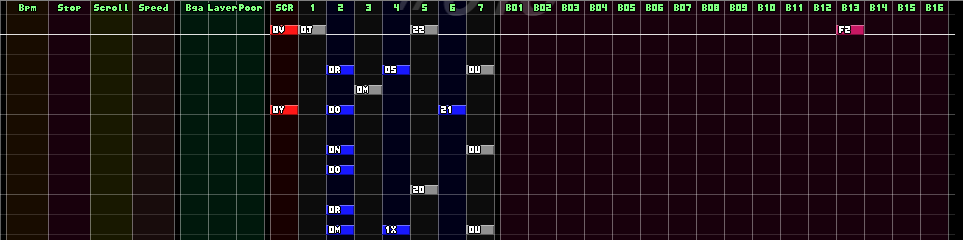
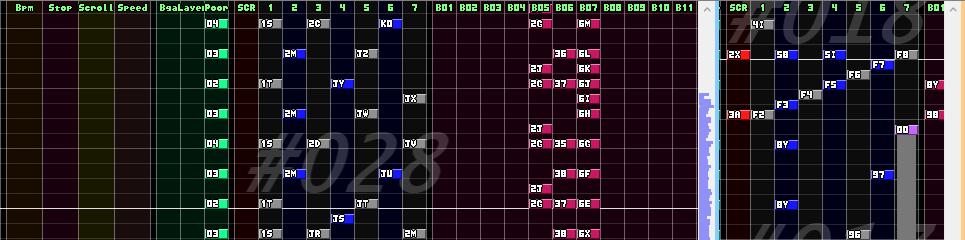
v0.7.42

diff --git a/docs/bms.html b/docs/bms.html
@@ -89,9 +89,9 @@
                 <h2>説明</h2>
                 要素をクリックすると説明セクションに飛びます。
                 <div class="image-map" src="img/window_bms.png" style="max-width: 640px;" maps="
-                       1, 31,1079,  67, #tab, link;
-                       1, 99, 799, 664, #main, link;
-                     800, 99, 280, 664, #rightPane, link;
+                       1, 31,1009,  67, #tab, link;
+                       1, 99, 804, 662, #main, link;
+                     809, 99, 202, 662, #rightPane, link;
                 "></div>
             </div>
             <div class="stack" id="tab">
@@ -121,10 +121,12 @@
                         316, 22, 66, 45, bms/copy.html;
                         382, 22, 79, 45, bms/paste.html;
                         461, 22, 60, 45, bms/delete.html;
-                        526, 22,154, 45, bms/preview_select.html;
-                        680, 22, 81, 45, bms/preview_all.html;
-                        761, 22,105, 45, bms/preview_resume.html;
-                        866, 22,112, 45, bms/preview_setting.html;
+                        526, 22, 86, 45, bms/mirror.html;
+                        612, 22, 97, 45, bms/place_copy.html;
+                        714, 22,154, 45, bms/preview_select.html;
+                        868, 22, 81, 45, bms/preview_all.html;
+                        949, 22,105, 45, bms/preview_resume.html;
+                        1054, 22,112, 45, bms/preview_setting.html;
                     "></div>
                     <div class="image-map" src="img/window_bms_tab_view.png" maps="
                           1,  0, 25, 21, common/undo.html;
@@ -140,6 +142,7 @@
                         652, 22, 73, 45, bms/grid_large.html;
                         730, 22,122, 45, bms/scale_y.html;
                         852, 22,106, 45, bms/scale_x.html;
+                        963, 22, 92, 45, bms/scrollbar.html;
                     "></div>
                     <div class="image-map" src="img/window_bms_tab_function.png" maps="
                           1,  0, 25, 21, common/undo.html;
@@ -168,10 +171,12 @@
                 要素をクリックすると説明が表示されます。
                 <div class="image-map" src="img/window_bms_main.png" maps="
                       0,  0, 963, 14, bms/area_header.html;
-                      7, 14, 167,226, bms/area_conductor.html, center;
-                    181, 14,  83,226, bms/area_meta.html, center;
-                    271, 14, 223,226, bms/area_key.html, center;
-                    501, 14, 447,226, bms/area_bgm.html, center;
+                      6, 14, 145,226, bms/area_conductor.html, center;
+                    156, 14,  73,226, bms/area_meta.html, center;
+                    234, 14, 193,226, bms/area_key.html, center;
+                    432, 14, 266,226, bms/area_bgm.html, center;
+                    698,  0,  17,240, bms/area_scrollbar.html, center;
+                    715, 14, 246,226, bms/area_mirror.html, center;
                 "></div>
                 <div>
                     <h3>マウスによる操作</h3>
@@ -301,12 +306,10 @@
                                                 <img src="img/icons/Selection.png" class="icon16"><b>選択機能</b>: <a href="bms_selection.html">選択機能ウィンドウ</a>を開きます。
                                             </li>
                                             <li>
-                                                <img src="img/icons/Update_Mono.png" class="icon16"><b>左右反転</b>: 選択範囲に含まれる音声レーン(演奏レーン+BGMレーン)のノートの配置を左右反転します。
-                                                <ul>
-                                                    <li>
-                                                        「選択中ノートがある左端のレーン」と「選択中ノートがある右端のレーン」の間が左右反転します。
-                                                    </li>
-                                                </ul>
+                                                <img src="img/icons/RightLeft.png" class="icon16"><b>左右反転</b>: 選択範囲に含まれる音声レーン(演奏レーン+BGMレーン)のノートの配置を左右反転します。
+                                            </li>
+                                            <li>
+                                                <img src="img/icons/Paste_Mono.png" class="icon16"><b>配置のコピー</b>: 選択範囲に含まれる音声レーンのノートを、<b>クリップボード上のノート配置</b>に合わせて移動します。
                                             </li>
                                             <li>
                                                 <img src="img/icons/Wave.png" class="icon16"><b>アセンブル</b>: <a href="bms_assemble.html">アセンブルウィンドウ</a>を開きます。
@@ -319,6 +322,11 @@
                                             </li>
                                             <li>
                                                 <img src="img/icons/Paste.png" class="icon16"><b>貼り付け</b>: クリップボードにコピーされているノーツを譜面に追加します。
+                                                <ul>
+                                                    <li>
+                                                        貼り付ける際、縦方向の位置は譜面上の位置に基づきますが、<span class="script">Ctrl+Alt+V</span>で貼り付けた場合は<b>秒数基準</b>になります。
+                                                    </li>
+                                                </ul>
                                             </li>
                                             <li>
                                                 <img src="img/icons/Copy.png" class="icon16"><b>複製</b>: 選択中のノートをクリップボードにコピー<b>せず</b>、直接その場に追加します。

diff --git a/docs/history.html b/docs/history.html
@@ -10,6 +10,57 @@
         <div class="content">
             <ul>
                 <li>
+                    <details id="0_7_42">
+                        <summary class="a-like">Version 0.7.42 (2025/11/06)</summary>
+                        <ul>
+                            <li>
+                                機能追加
+                                <ul>
+                                    <li>
+                                        <a href="bms.html">BMSモード</a>において、以下の機能を追加しました。
+                                        <ul>
+                                            <li>
+                                                譜面表示エリアの縦スクロールバーに演奏レーンのノート数を表示できるようにしました。
+                                            </li>
+                                            <li>
+                                                <span class="script">Ctrl+Shift+V</span>で<b>配置のコピー</b>を実行できるようにしました。
+                                            </li>
+                                        </ul>
+                                    </li>
+                                </ul>
+                            </li>
+                            <li>
+                                仕様変更
+                                <ul>
+                                    <li>
+                                        <a href="bms.html">BMSモード</a>において、以下のように変更しました。
+                                        <ul>
+                                            <li>
+                                                「選択範囲の左右反転」のアイコンを変更しました。
+                                            </li>
+                                            <li>
+                                                上部のメニューに「選択範囲の左右反転」ボタンを追加しました。
+                                            </li>
+                                            <li>
+                                                譜面表示エリア及び<a href="bms_slice.html">スライスウィンドウ</a>でコピーしたノートを貼り付ける際、<span class="script">Ctrl+Alt+V</span>を押した場合は縦方向が<b>秒数基準</b>で配置されるようにしました。
+                                            </li>
+                                        </ul>
+                                    </li>
+                                </ul>
+                            </li>
+                            <li>
+                                不具合修正
+                                <ul>
+                                    <li>
+                                        <a href="bms.html">BMSモード</a>において、スクロールバーが下端にある状態で「途中から再生(<span class="script">F6</span>)」によって<b>mBMplay</b>を起動した場合に、mBM側でエラーとなる不具合を修正しました。
+                                    </li>
+                                </ul>
+                            </li>
+                        </ul>
+                        <br>
+                    </details>
+                </li>
+                <li>
                     <details id="0_7_41">
                         <summary class="a-like">Version 0.7.41 (2025/10/25)</summary>
                         <ul>

diff --git a/docs/bugs.html b/docs/bugs.html
@@ -110,32 +110,6 @@
                 </ul>
                 <br>
             </details>
-            <details class="faq">
-                <summary><a href="bms.html"><span class="script">F6</span>でプレビュー</a>すると「mBMplay」がエラーを吐く</summary>
-                <ul>
-                    <li>
-                        <b>開始位置の引数に不正な値を渡している</b>ことが原因の、BmsMaker3側の不具合です。
-                        <ul>
-                            <li>
-                                BMSモードで<span class="script">F6</span>(現在位置から再生)を行うと、BM3は「現在の小節位置の1つ前」を引数として各種ビューワーを起動します。
-                            </li>
-                            <li>
-                                詳細は割愛しますが、現在(v0.7.41)のBM3には<b>スクロールバーが下端にある場合、この引数が<span class="script">-1</span>になる</b>という不具合があります。
-                            </li>
-                            <li>
-                                <a href="https://mistyblue.info/mbmplay.html" target="_blank">mBMplay</a>は負の小節番号を許していないため、この引数によってエラーが発生します。
-                            </li>
-                            <li>
-                                この不具合の解消は簡単ですが、緊急性が低いため、他の修正要素があった場合に次のアップデートでまとめて対応します。
-                            </li>
-                            <li>
-                                当面の間、<b>スクロールバーが下端にある場合</b>は<span class="script">F6</span>ではなく<span class="script">F5</span>でプレビューするようにしてください。
-                            </li>
-                        </ul>
-                    </li>
-                </ul>
-                <br>
-            </details>
         </div>
         <script type="text/javascript" src="script.js"></script>
         <script type="text/javascript">

diff --git a/docs/bms/area_mirror.html b/docs/bms/area_mirror.html
@@ -1,0 +1,28 @@
+<h3>ミラー表示エリア</h3>
+<ul>
+    <li>
+        譜面表示エリアと全く同じ内容を表示しますが、異なる位置へスクロールできます。
+        <ul>
+            <li>
+                前半での譜面配置を後半でも再現したい場合などに、該当部分をミラーエリアで確認しながら編集できます。
+            </li>
+            <li>
+                ただしVersion0.7時点では未完成の機能であり、<br>
+                <b>ミラーエリア側はスクロールと拡大率変更以外に一切の操作を受け付けません</b>。
+            </li>
+        </ul>
+    </li>
+    <li>
+        譜面エリアの境界(<span style="color: #48f;">水色</span>のグリッドスプリッター)をドラッグして表示範囲を変更できます。
+        <ul>
+            <li>
+                ミラーエリアが非表示の状態でスプリッターを<b>ダブルクリック</b>すると<br>
+                ミラーエリアを半分の幅で表示します。
+            </li>
+            <li>
+                ミラーエリアが表示されている状態でスプリッターを<b>ダブルクリック</b>すると<br>
+                ミラーエリアを非表示にします。
+            </li>
+        </ul>
+    </li>
+</ul>

diff --git a/docs/bms/place_copy.html b/docs/bms/place_copy.html
@@ -1,0 +1,22 @@
+<h3><img src="img/icons/Paste_Mono.png" class="icon"/>配置のコピー</h3>
+<span class="script">Ctrl+Shift+V</span>
+<ul>
+    <li>
+        選択範囲に含まれる音声レーン(演奏レーン+BGMレーン)のノートを、<br>
+        <b>クリップボード上のノート配置</b>に合わせて移動します。
+    </li>
+    <li>
+        参照したいノート配列を<b>コピー</b>(<span class="script">Ctrl+C</span>)した状態で実行できます。
+    </li>
+    <li>
+        コピー元と対象範囲との間で定義番号の対応は一切調べません。<br>
+        左から優先的に、機械的に配置されます。
+    </li>
+    <li>
+        コピー元と対象範囲のノート数が異なる場合、余ったノートは移動しません。
+    </li>
+    <li>
+        <span class="script">Ctrl+Shift<b>+Alt</b>+V</span>でコピーを実行した場合、<br>
+        縦方向の位置合わせが<b>譜面上の位置ではなく秒数基準</b>になります。
+    </li>
+</ul>

diff --git a/docs/faq.html b/docs/faq.html
@@ -76,8 +76,8 @@
                                     <li>
                                         ただしVersion0.7時点では未完成の機能であり、<b>ミラーエリア側はスクロールと拡大率変更以外に一切の操作を受け付けません</b>。
                                     </li>
-                                        </ul>
-                                    </li>
+                                </ul>
+                            </li>
                             <li>
                                 譜面エリアの境界(よく見ると<span style="color: #48f;">水色</span>のグリッドスプリッターがある)をドラッグして表示範囲を変更できます。
                                 <ul>

diff --git a/docs/bms/scrollbar.html b/docs/bms/scrollbar.html
@@ -1,0 +1,14 @@
+<h3><img src="img/icons/Spectrum_Horz.png" class="icon"/>SBプレビュー</h3>
+<ul>
+    <li>
+        チェックした場合、譜面表示エリアの縦スクロールバーに<br>
+        演奏レーンのノート数を棒グラフ形式で表示します。
+    </li>
+    <li>
+        ノート数集計の範囲はスクロールバーの長さに依存します。<br>
+        ウィンドウの高さが小さいほど棒1本あたりの範囲が広くなるため、ノート数が多く見えます。
+    </li>
+    <li>
+        描画処理の都合上、スクロールバーのツマミと厳密に同じ位置にはなりません。
+    </li>
+</ul>

diff --git a/docs/bms/area_scrollbar.html b/docs/bms/area_scrollbar.html
@@ -1,0 +1,14 @@
+<h3>スクロールバー</h3>
+<ul>
+    <li>
+        「SBプレビュー」がチェックされている場合、<br>
+        ここに演奏レーンのノート数が棒グラフで表示されます。
+    </li>
+    <li>
+        ノート数集計の範囲はスクロールバーの長さに依存します。<br>
+        ウィンドウの高さが小さいほど棒1本あたりの範囲が広くなるため、ノート数が多く見えます。
+    </li>
+    <li>
+        描画処理の都合上、スクロールバーのツマミと厳密に同じ位置にはなりません。
+    </li>
+</ul>

diff --git a/docs/bms/mirror.html b/docs/bms/mirror.html
@@ -1,0 +1,15 @@
+<h3><img src="img/icons/RightLeft.png" class="icon"/>左右反転</h3>
+<span class="script">Ctrl+R</span>
+<ul>
+    <li>
+        選択範囲に含まれる音声レーン(演奏レーン+BGMレーン)の<br>
+        ノートの配置を左右反転します。
+    </li>
+    <li>
+        「選択中ノートがある左端のレーン」と<br>
+        「選択中ノートがある右端のレーン」の間が左右反転します。
+    </li>
+    <li>
+        演奏レーンとBGMレーンは区別されず、全体が左右反転します。
+    </li>
+</ul>

diff --git a/docs/index.html b/docs/index.html
@@ -11,7 +11,7 @@
             <div class="stack">
                 <a href="https://github.com/Kuroki-Narumi/BmsMaker3-Manual/releases" target="_blank">
                     <img src="img/logo.png" style="max-width: 100%;"/><br>
-                    Version 0.7.41<br>
+                    Version 0.7.42<br>
                 </a>
                 オールインワン型BMS制作補助ツール<br>
             </div>
